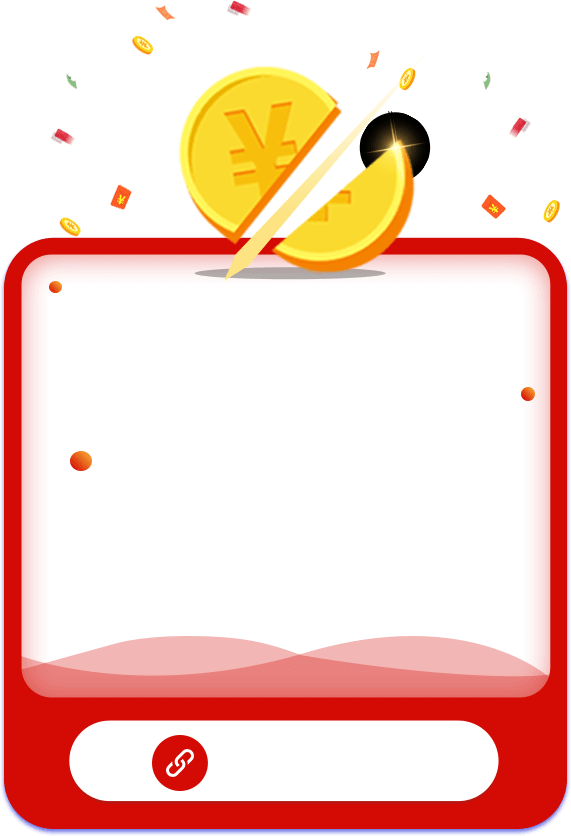
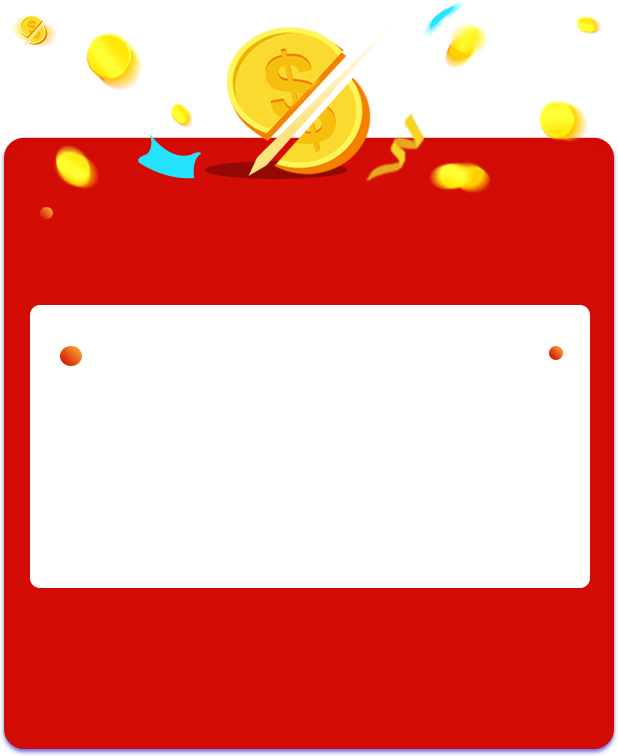
style: 分享好友弹窗ui调整

diff --git a/src/components/dialogs/dialogSharingFriends.vue b/src/components/dialogs/dialogSharingFriends.vue
@@ -12,68 +12,113 @@
   align-items: center;
 }
 
+// .share-types {
+//   width: 100%;
+//   display: flex;
+//   justify-content: center;
+//   align-items: center;
+//   margin-bottom: 41px;
+//   position: relative;
+
+//   img {
+//     width: 100px;
+//     margin-right: 20px;
+//     height: auto;
+//   }
+// }
+
+// .tip {
+//   width: 400px;
+//   margin: 0 auto;
+//   text-align: center;
+//   margin-bottom: 135px;
+//   font-size: 26px;
+// }
+// .copy-link {
+//   display: block;
+//   background: none;
+//   // padding-left: 230px;
+//   font-size: 34px;
+//   font-weight: bold;
+//   color: rgba(211, 12, 5, 1);
+//   position: absolute;
+//   left: 230px;
+//   bottom: 50px;
+// }
+
 .share-box {
   width: 571px;
   height: 836px;
   background: url("~@/assets/images/share-background.png") no-repeat 0 0/100%
     100%;
-  padding-top: 320px;
+  padding-top: 210px;
   box-sizing: border-box;
   position: relative;
 
+  .tip {
+    width: 463px;
+    font-size: 30px;
+    font-weight: bold;
+    color: rgba(255, 255, 255, 1);
+    line-height: 38px;
+    margin: 0 auto;
+    margin-bottom: 76px;
+  }
+
   .tit {
-    text-align: center;
+    height: 31px;
     font-size: 40px;
     font-weight: bold;
     color: rgba(211, 12, 5, 1);
-    margin-bottom: 29px;
+    text-align: center;
+    margin-bottom: 41px;
   }
-}
 
-.share-types {
-  width: 100%;
-  display: flex;
-  justify-content: center;
-  align-items: center;
-  margin-bottom: 41px;
-  position: relative;
+  .share-types {
+    width: 100%;
+    display: flex;
+    justify-content: center;
+    align-items: center;
+    margin-bottom: 41px;
+    position: relative;
 
-  img {
-    width: 100px;
-    margin-right: 20px;
+    .share-item {
+      width: 100px;
+      margin-right: 20px;
+      height: auto;
+      text-align: center;
+      font-size: 20px;
+      color: #323232;
+
+      img {
+        width: 100%;
+        height: auto;
+      }
+    }
+  }
+
+  .copy-link {
+    position: absolute;
+    width: 429px;
+    height: 81px;
+    bottom: 50px;
+    left: 0;
+    right: 0;
+    margin: 0 auto;
+    background: url("~@/assets/images/copylink.png") no-repeat 0 0/100% 100%;
+  }
+
+  .close-img {
+    display: block;
+    width: 70px;
     height: auto;
+    // margin: 96px auto 0;
+    position: absolute;
+    bottom: -90px;
+    left: 0;
+    right: 0;
+    margin: 0 auto;
   }
-}
-
-.tip {
-  width: 400px;
-  margin: 0 auto;
-  text-align: center;
-  margin-bottom: 135px;
-  font-size:26px;
-}
-.copy-link {
-  display: block;
-  background: none;
-  // padding-left: 230px;
-  font-size: 34px;
-  font-weight: bold;
-  color: rgba(211, 12, 5, 1);
-  position: absolute;
-  left: 230px;
-  bottom:50px;
-}
-
-.close-img {
-  display: block;
-  width: 70px;
-  height: auto;
-  // margin: 96px auto 0;
-  position: absolute;
-  bottom:-90px;
-  left: 0;
-  right: 0;
-  margin: 0 auto;
 }
 </style>
 
@@ -81,28 +126,14 @@
   <div class="dialogSharingFriends-container"
     v-show="dialogVisible.show"
     @click.stop="abc=1">
-    <!-- <van-popup v-model="dialogVisible.show">
-      <h3> 分享好友</h3>
-      <div class="share-messenger"
-        @click="mx_shareMessenger"
-        style="font-size:36px;">Messenger</div>
-      <div class="share-whatsapp"
-        @click="mx_shareWhatsapp"
-        style="font-size:36px;">whatsapp</div>
-      <div class="share-line"
-        @click="mx_shareLine"
-        style="font-size:36px;">LINE</div> -->
-    <!-- LINE网站生成button按钮 -->
-    <!-- <div class="line-it-button" data-lang="zh_Hant" data-type="share-c" data-ver="2" data-url="https://liuming.mynatapp.cc" style ="display: none;"></div>  -->
-    <!-- <div class="share-facebook"
-        @click="mx_shareFacebook"
-        style="font-size:36px;">FB</div> -->
-    <!-- </van-popup> -->
-
     <div class="share-box">
+      <div class="tip">
+        Tip: Sharing to new friends will cut faster and more.
+      </div>
+
       <h5 class="tit">Share To</h5>
 
-      <div class="share-types">
+      <!-- <div class="share-types">
         <img src="@/assets/images/messenger.png"
           class="fb"
           alt="fb"
@@ -113,23 +144,44 @@
 
         <img src="@/assets/images/whatsapp.png"
           @click="mx_shareWhatsapp">
-          
+
         <img src="@/assets/images/facbook.png"
           @click="mx_shareFacebook">
-      </div>
+      </div> -->
 
-      <div class="tip">
-        Tip: Sharing to new friends will cut faster and more.
-      </div>
+      <div class="share-types">
 
-      <!-- <button class="copy-link"
-        :data-clipboard-text="mx_copyUrl">Copy Link</button> -->
+        <div class="share-item">
+          <img src="@/assets/images/facbook.png"
+            @click="mx_shareFacebook">
+          <p>Facebook</p>
+        </div>
+
+        <div class="share-item">
+          <img src="@/assets/images/line.png"
+            @click="mx_shareLine">
+          <p>LINE</p>
+        </div>
+
+        <div class="share-item">
+          <img src="@/assets/images/whatsapp.png"
+            @click="mx_shareWhatsapp">
+          <p>WhatsApp</p>
+        </div>
+
+        <div class="share-item">
+          <img src="@/assets/images/messenger.png"
+            @click="mx_shareMessenger">
+          <p>Messenger</p>
+        </div>
+
+      </div>
 
       <button ref="copy"
         class="copy-link"
         data-clipboard-action="copy"
         :data-clipboard-text="shareInfo.share_url"
-        @click="mx_copyLink">Copy Link</button>
+        @click="mx_copyLink"></button>
 
       <img src="@/assets/images/guanbi@2x.png"
         class="close-img"

diff --git a/src/views/bargain.vue b/src/views/bargain.vue
@@ -239,18 +239,6 @@ export default {
         let result = await this.goBargainChop({
           spu_id: this.$route.query.spuId
         });
-        // if(result){
-        //   alert(1);
-        //   console.log("66666666666666")
-        //   const chop_info=result.data.chop_info;
-        //   this.$router.push({
-        //     path:"/bargain",
-        //     query:{
-        //       ...this.$route.query,
-        //       bargainId:chop_info.bargain_id
-        //     }
-        //   })
-        // }
       }
 
       this.initBargainInfo();
@@ -326,8 +314,8 @@ export default {
       let result = await shareSpu({ spu_id: this.$route.query.spuId });
       if (result) {
         this.shareInfo = result.data;
-        this.dialogs.sharingFriends.show = true;
       }
+      this.dialogs.sharingFriends.show = true;
     },
     jumpCurBargainPage(spu_id) {
       this.$router.push({

diff --git a/vue.config.js b/vue.config.js
@@ -10,8 +10,8 @@ function getUrl(NODE_ENV) {
             // url = 'http://192.168.4.128:8024/api';
             // 阳
             // url = 'http://192.168.4.32:8024/api';
-            // url = 'https://dev-ht-zdd-api.batmobi.net/api';
-            url = 'https://test-ht-zdd-api.batmobi.net/api';
+            url = 'https://dev-ht-zdd-api.batmobi.net/api';
+            // url = 'https://test-ht-zdd-api.batmobi.net/api';
             break;
         case 'test':
             // url = 'http://127.0.0.1:7001';

diff --git a/src/components/commodity/dialogSharingMakes.vue b/src/components/commodity/dialogSharingMakes.vue
@@ -246,7 +246,7 @@
         <button ref="copy"
           class="copy-link"
           data-clipboard-action="copy"
-          :data-clipboard-text="shareInfo.share_url||'ceshi'"
+          :data-clipboard-text="shareInfo.share_url"
           @click="mx_copyLink"></button>
       </div>
 
